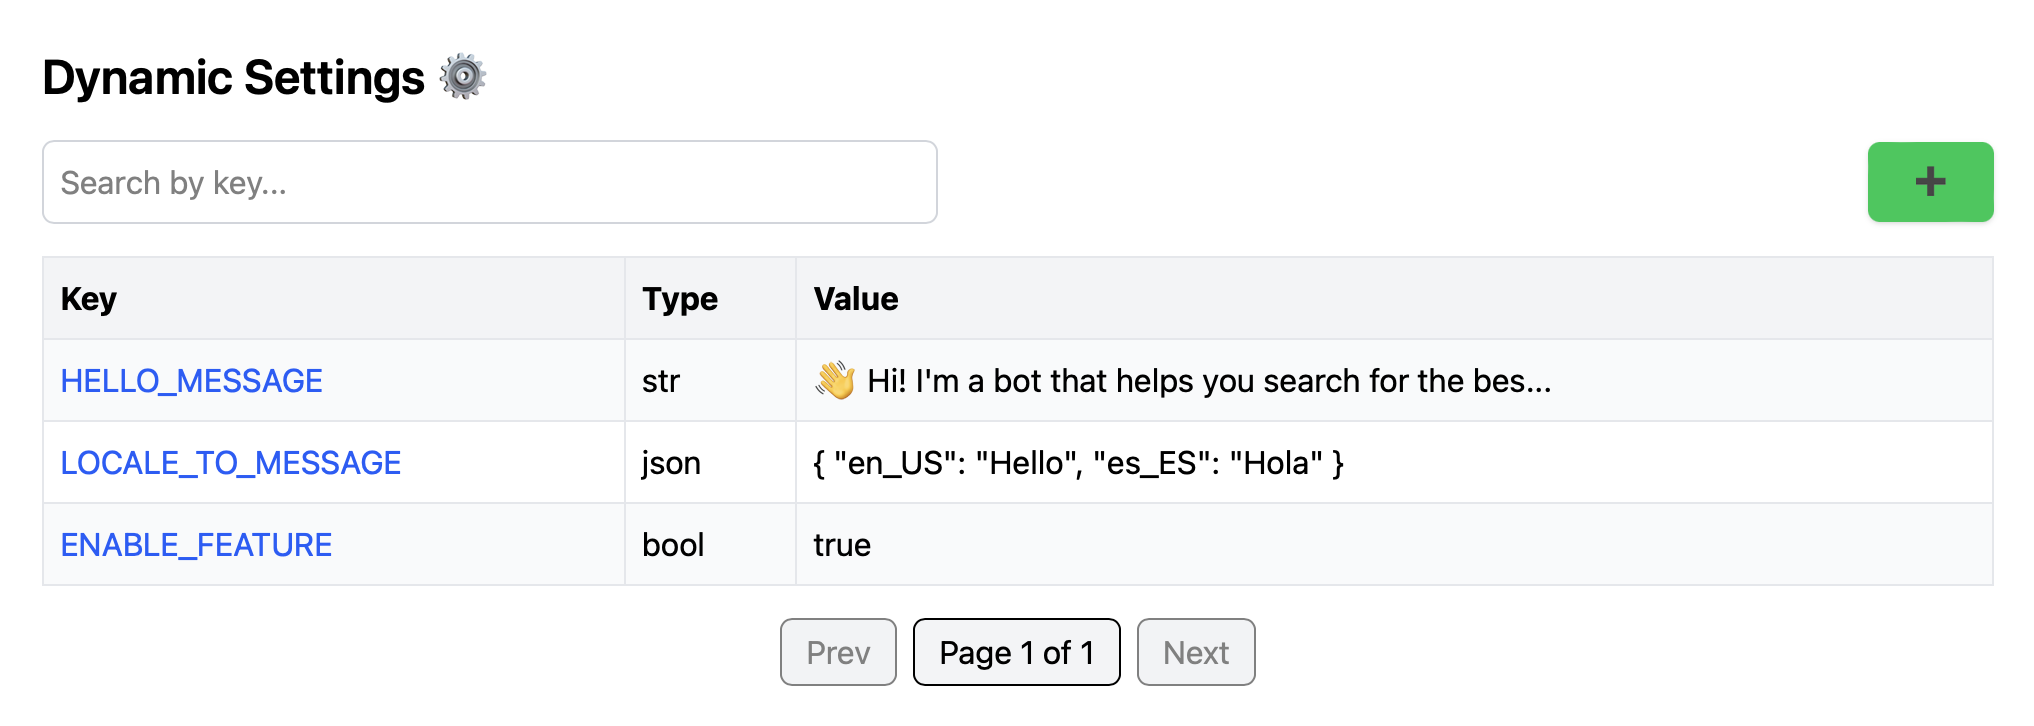
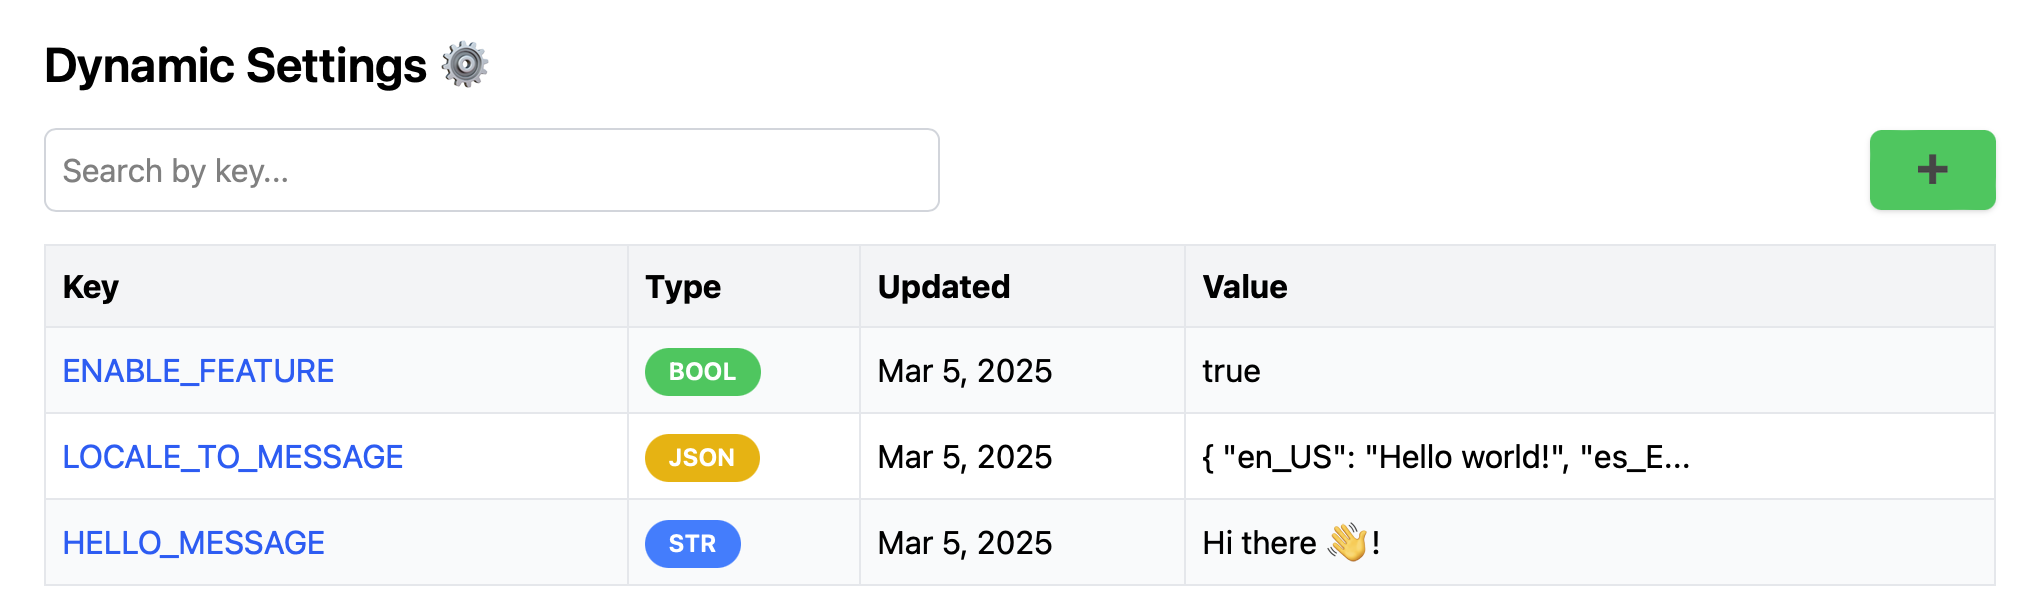
fix settings screen search; validate token on every screen

diff --git a/ui/src/pages/SettingsList.tsx b/ui/src/pages/SettingsList.tsx
@@ -6,6 +6,23 @@ import { formatDate } from "../utils/formaters.ts";
 
 const ITEMS_PER_PAGE = 20;
 
+const getBadgeColor = (type: string): string => {
+  switch (type.toLowerCase()) {
+    case "bool":
+      return "bg-green-500";
+    case "str":
+      return "bg-blue-500";
+    case "int":
+      return "bg-purple-500";
+    case "float":
+      return "bg-indigo-500";
+    case "json":
+      return "bg-yellow-500 text-black";
+    default:
+      return "bg-gray-500";
+  }
+};
+
 const SettingsListPage: React.FC = () => {
   const [settings, setSettings] = useState<Settings[]>([]);
   const [filteredSettings, setFilteredSettings] = useState<Settings[]>([]);
@@ -50,7 +67,7 @@ const SettingsListPage: React.FC = () => {
   const indexOfLastItem = currentPage * ITEMS_PER_PAGE;
   const indexOfFirstItem = indexOfLastItem - ITEMS_PER_PAGE;
   const currentSettings = filteredSettings.slice(indexOfFirstItem, indexOfLastItem);
-  const totalPages = Math.ceil(filteredSettings.length / ITEMS_PER_PAGE);
+  const totalPages = Math.max(Math.ceil(filteredSettings.length / ITEMS_PER_PAGE), 1);
 
   return (
     <div className="max-w-5xl mx-auto p-6 bg-white rounded-lg shadow-md">
@@ -58,7 +75,7 @@ const SettingsListPage: React.FC = () => {
       <h2 className="text-2xl font-semibold mb-4">Dynamic Settings ⚙</h2>
 
       {/* Search & Create Button */}
-      {filteredSettings.length > 0 && (
+      {settings.length > 0 && (
         <div className="flex justify-between items-center mb-4 gap-4">
           <input
             type="text"
@@ -77,7 +94,7 @@ const SettingsListPage: React.FC = () => {
       )}
 
       {/* No settings */}
-      {filteredSettings.length === 0 ? (
+      {settings.length === 0 ? (
         <div className="text-center py-8">
           <p className="text-gray-600 mb-4">No settings here yet! 😮 Tap the ➕ below to create one!</p>
           <Link
@@ -108,7 +125,15 @@ const SettingsListPage: React.FC = () => {
                         {setting.key}
                       </Link>
                     </td>
-                    <td className="p-2 border border-gray-200">{setting.type}</td>
+                    <td className="p-2 border border-gray-200">
+                      <span
+                        className={`inline-block px-3 py-1 text-xs font-semibold text-white rounded-full ${getBadgeColor(
+                          setting.type
+                        )}`}
+                      >
+                        {setting.type.toUpperCase()}
+                      </span>
+                    </td>
                     <td className="p-2 border border-gray-200">{formatDate(setting.updatedAt)}</td>
                     <td className="p-2 border border-gray-200">
                       {setting.value.length > 40 ? `${setting.value.slice(0, 40)}...` : setting.value}

diff --git a/ui/src/App.tsx b/ui/src/App.tsx
@@ -4,6 +4,7 @@ import SettingsListPage from "./pages/SettingsList.tsx";
 import CreateSettingsPage from "./pages/CreateSettings.tsx";
 import ManageSettingsPage from "./pages/ManageSettings.tsx";
 import AuthTokenPage from "./pages/auth.tsx";
+import { validateToken } from "./api/authApi.ts";
 
 interface ProtectedRouteProps {
   element: ReactNode;
@@ -13,8 +14,22 @@ const ProtectedRoute: React.FC<ProtectedRouteProps> = ({ element }) => {
   const [isAuthenticated, setIsAuthenticated] = useState<boolean | null>(null);
 
   useEffect(() => {
-    const token = localStorage.getItem("authToken");
-    setIsAuthenticated(!!token);
+    const checkToken = async () => {
+      const token: string | null = localStorage.getItem("authToken");
+      if (!token) {
+        setIsAuthenticated(false);
+        return;
+      }
+      try {
+        await validateToken(token);
+        setIsAuthenticated(true);
+      } catch {
+        localStorage.removeItem("authToken");
+        setIsAuthenticated(false);
+      }
+    };
+
+    checkToken();
   }, []);
 
   if (isAuthenticated === null) {

diff --git a/README.md b/README.md
@@ -11,7 +11,7 @@ It provides a web-based UI and an API to manage key-value pairs efficiently.
 ```
 docker pull markantipin12/dynamic-settings
 
-docker run -d -p 18100:18100 markantipin12/dynamic-settings
+docker run -d -p 18100:18100 -v db_data:/app/db markantipin12/dynamic-settings
 
 open http://localhost:18100
 ```
@@ -30,8 +30,11 @@ API_KEY=api-key # The API key to access the API
 - 🏗 **API-Driven** – A RESTful API for programmatic access to settings.
 - 🖥 **User-Friendly UI** – Manage settings through an intuitive web interface.
 
----
 
+## 👷 Client Libraries
+- **[Python](https://github.com/MarkAntipin/dynamic-settings-python)**
+
+---
 
 ## 🛠 Development
 ### With docker
